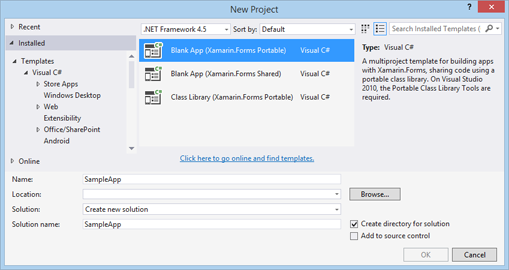
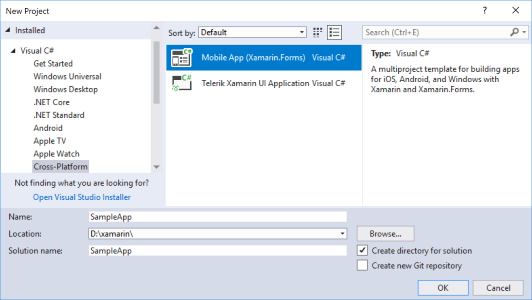
Documentation updated

diff --git a/installation-and-deployment/windows/getting-started-windows.md b/installation-and-deployment/windows/getting-started-windows.md
@@ -30,34 +30,25 @@ If your scenario requires using the other approach, please proceed following the
 
 #### How to create blank Xamarin.Forms app
 
-Create new solution **Xamarin.Forms Portable** / **Shared**
+Create new solution **Mobile App (Xamarin.Forms)**:
 
-**Visual Studio**: located at *Templates* > *Visual C#* > *Mobile Apps* section:  
+**Visual Studio**: located at *Visual C#* > *Cross-Platform* section:  
 ![Create new Xamarin.Forms solution](../images/visual-studio-new-solution.png "Image")
 
-Typically, the solution will contain the following projects:
+In the next screen you could choose the platforms your app will target as well as the code sharing strategy:
 
-* **Portable/Shared**: Cross platform application library that contains the shared code and UI.
+![Create new Xamarin.Forms solution second screen](../images/visual-studio-new-solution_screen2.png "Image")
+
+Typically, the solution can contain the following projects:
+
+* **.NET Standard/Shared**: Cross platform application library that contains the shared code and UI.
 * **Android**: Available on all operation systems.
-* **WinPhone**, **Windows 8.1**or **UWP**: Available only for projects created with Visual Studio.
+* **UWP**: Available only for projects created with Visual Studio.
 * **iOS**:
  * Available for MacOS.
  * If you wish to use Visual Studio as a development environment you will also need a mac machine. You can find more information how to setup your environment here: [Introduction to Xamarin.iOS for Visual Studio](http://developer.xamarin.com/guides/ios/getting_started/installation/windows/introduction_to_xamarin_ios_for_visual_studio/)
 
-## 2. Getting the latest platform SDK versions
-
-Make sure that your Xamarin.Forms packages are up to date.
-
->The **Android project** requires multiple packages with specific versions. The **Xamarin.Forms** package will install most of the required packages as its dependencies. You can then go to [Required Android Support Libraries]({% slug required-android-support-libraries %}) article and check if you have all required files and versions.
-
-This is how you can update the NuGet packages:
-
-1. Right-click the newly created solution and choose: Visual Studio > "Manage NuGet packages for Solution".
-2. From Updates >> nuget.org install the latest version of the **Xamarin.Forms** package.
-
-![Update packages](../images/calendar-getting-started-update-packages.png)
-
-## 3. Add reference to Telerik Components
+## 2. Add reference to Telerik Components
 
 You have two options.
 

diff --git a/installation-and-deployment/required-android-support-libraries.md b/installation-and-deployment/required-android-support-libraries.md
@@ -11,9 +11,9 @@ The controls in the suite require specific Xamarin Android Support Libraries to 
 
 Here are listed the common requirements for all Android projects that use our suite:
 
-- The minimum required version of **Xamarin.Forms** package is **2.4.0**.
-- The minimum required version of all Xamarin Android Support Libraries is **23.3.0**.
-- Here are listed all packages that come with the latest version of Xamarin.Forms, which also have to be updated to version **23.3.0**:
+- The minimum required version of **Xamarin.Forms** package is **3.0**.
+- The minimum required version of all Xamarin Android Support Libraries is **27.0.2**.
+- Here are listed all packages that come with the latest version of Xamarin.Forms, which also have to be updated to version **27.0.2**:
   - Xamarin.Android.Support.v4
   - Xamarin.Android.Support.Design
   - Xamarin.Android.Support.v7.AppCompat
@@ -23,7 +23,7 @@ Here are listed the common requirements for all Android projects that use our su
   - Xamarin.Android.Support.Animated.Vector.Drawable
   - Xamarin.Android.Support.v7.RecyclerView (required by Telerik.Xamarin.Android.List.dll)
   - Xamarin.Android.Support.v8.RenderScript (required by Telerik.Xamarin.Android.Primitives.dll)
-- The target Android version of the Android project should be **API Level 23 (Android 6.0)** or greater. This could be modified from the project settings.
+- The target Android version of the Android project should be **Android 8.1** (API level 27) or greater. This could be modified from the project settings.
 - The corresponding to the target Android version **Android SDK** has to be installed in order to use the required support libraries (install from the Android SDK Manager).
 
 ## See Also

diff --git a/installation-and-deployment/custom-item-templates.md b/installation-and-deployment/custom-item-templates.md
@@ -88,7 +88,7 @@ The **SearchViewTwoLinesItems** template once again shows a different approach o
 
 ### Login Screen
 
-The **Login Screen** template provides different options for entering user credentials, such as with fingerprint, with pin or social login. The template uses RadEntry, RadButton, RadBorder, and RadCheckbox from Progress Telerik UI for Xamarin.
+The **Login Screen** templates provide various options for entering user credentials, such as with fingerprint, with pin or integrating a social login. There are 5 different scenarios available, so you could choose the one that best suits your requirements. The templates use [RadEntry]({%slug entry-overview%}), [RadButton]({%slug button-overview%}), [RadBorder]({%slug border-overview%}), and [RadCheckBox]({%slug checkbox-overview%}) components from Progress Telerik UI for Xamarin.
 
 The image below shows LoginComplete template:
 
@@ -97,7 +97,7 @@ The image below shows LoginComplete template:
 
 ### Feedback Screen
 
-The **Feedback Screen** template implements a feedback scenario using RadBorder, RadButton, and RadListView from Progress Telerik UI for Xamarin.
+The **Feedback Screen** template implements a feedback scenario for receiving comments, notes or recommendations (and attachments) from the end users regarding the app. The template uses [RadBorder]({%slug border-overview%}), [RadButton]({%slug button-overview%}) and [RadListView]({%slug listview-overview%}) from Progress Telerik UI for Xamarin.
 
 #### Figure 11: Feedback Screen
 ![feedback screen](images/item-templates/item-template-feedback.png) 
